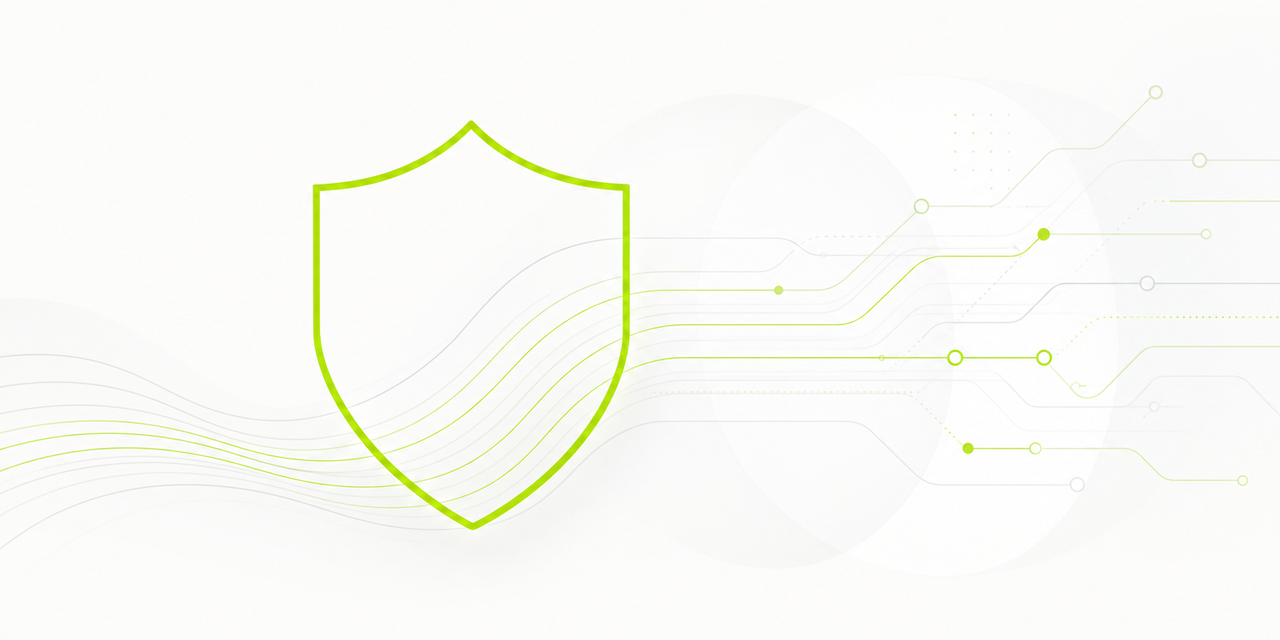
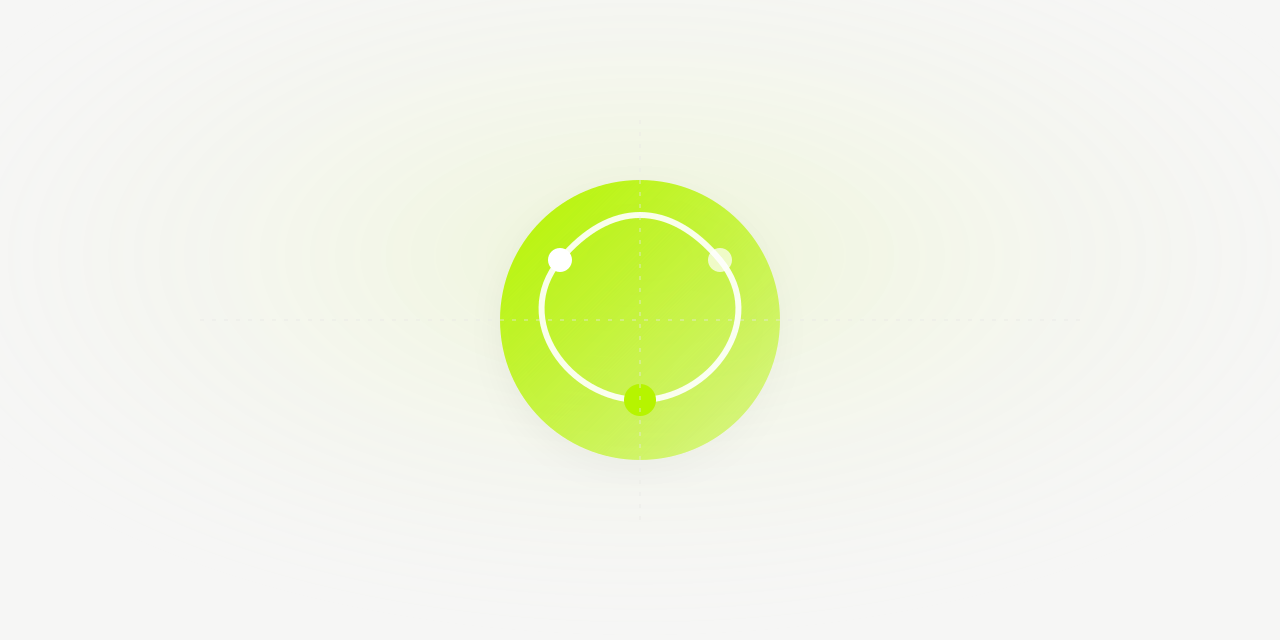
feat(assets): complete V3 Senior-5 core asset set
Refresh the thumbnail master and add the missing workflow/dashboard coverage so the core portfolio assets match the V3 light-theme system.

diff --git a/docs/asset-brief.md b/docs/asset-brief.md
@@ -11,10 +11,10 @@ Grid WebP: `kimo-nexus/public/projects/nexus-shield.webp` (1280×640).
 | Asset | File | Size | Status |
 |---|---|---|---|
 | Thumbnail | `docs/assets/thumbnail.png` | 1280×640 | ✅ Shipped |
-| Hero | `docs/assets/hero_main.png` | 1920×1080 | ✅ Legacy (1024² dark — regen to minimal tier queued) |
-| Workflow | `docs/assets/workflow.png` | 1920×1080 | ⏳ Not generated |
-| Dashboard | `docs/assets/dashboard.png` | 1600×1000 | ⏳ Not generated |
-| Architecture | `docs/assets/architecture.png` | 1600×1000 | ✅ Legacy infographic; also architecture_hybrid.png |
+| Hero | `docs/assets/hero_main.png` | 1920×1080 | ✅ Shipped (V3 minimal) |
+| Workflow | `docs/assets/workflow.png` | 1920×1080 | ✅ Shipped (V3 minimal) |
+| Dashboard | `docs/assets/dashboard.png` | 1600×1000 | ✅ Shipped (V3 minimal) |
+| Architecture | `docs/assets/architecture.png` | 1600×1000 | ✅ Shipped (V3 minimal); also `architecture_hybrid.png` |
 
 ### Thumbnail prompt (required — grid + README)
 